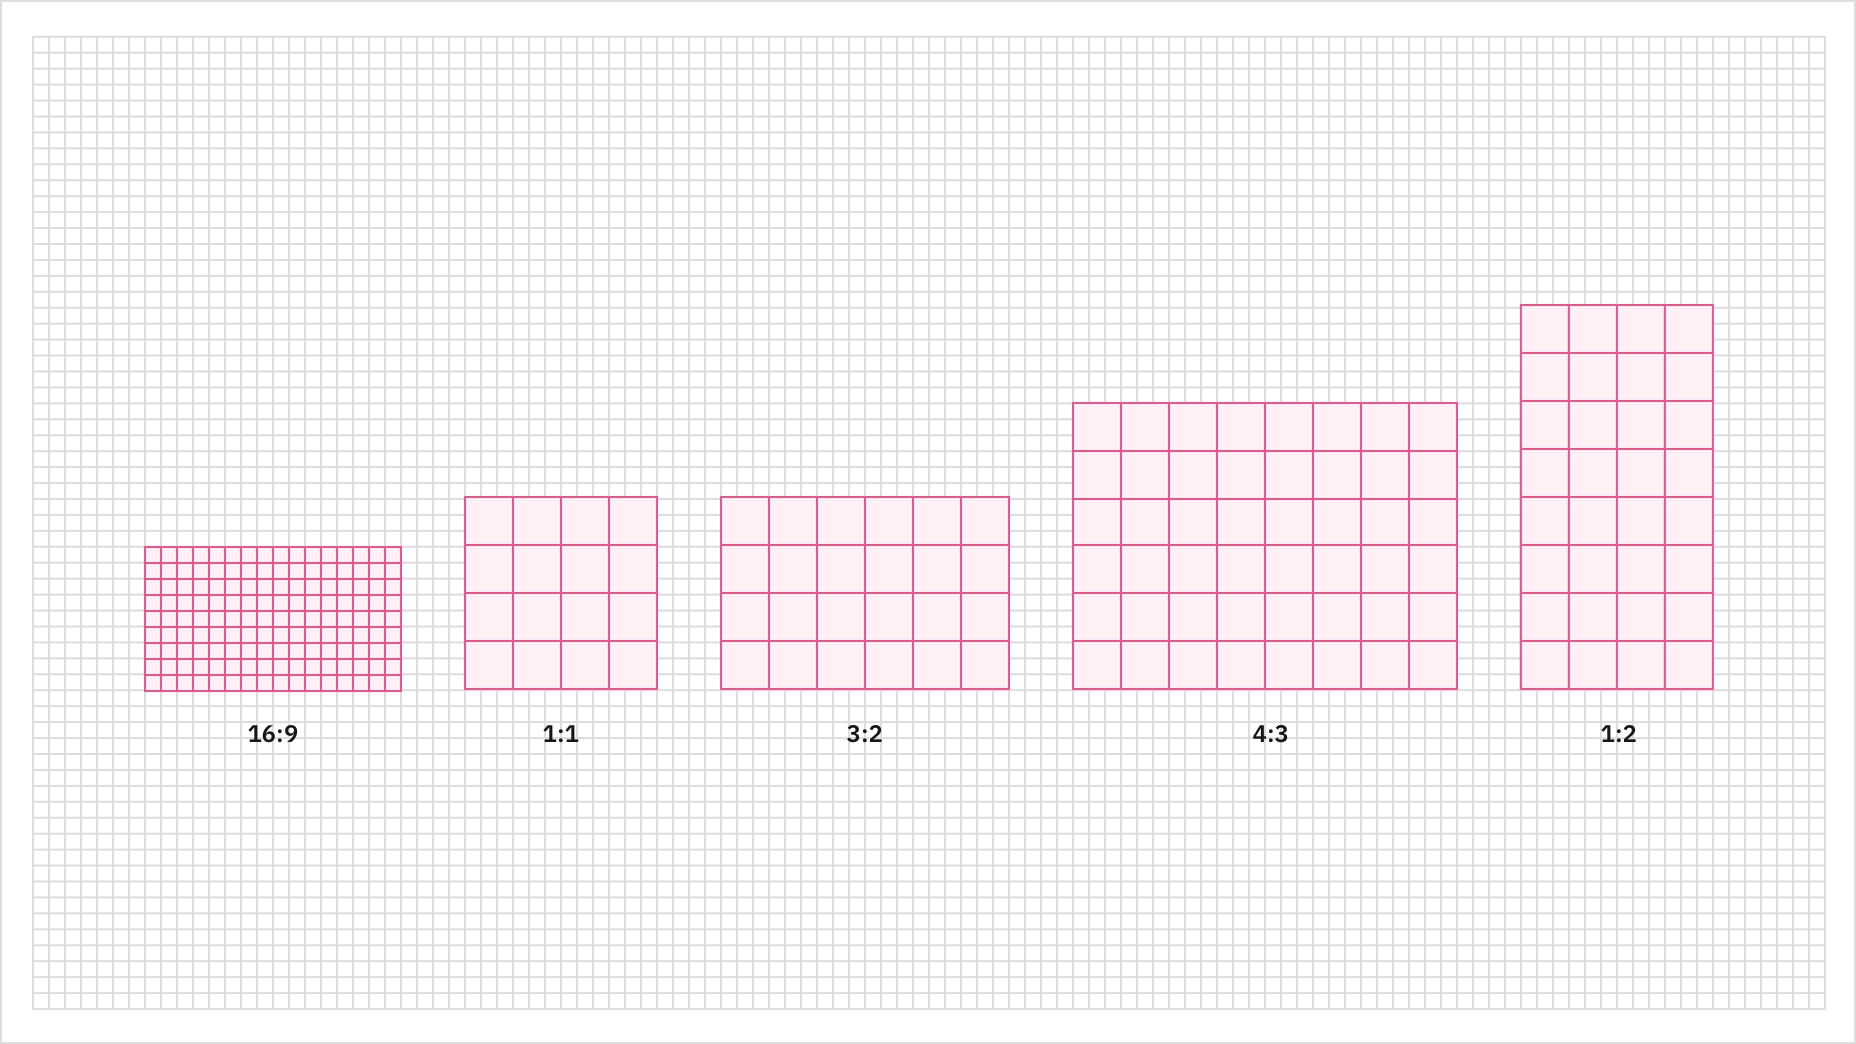
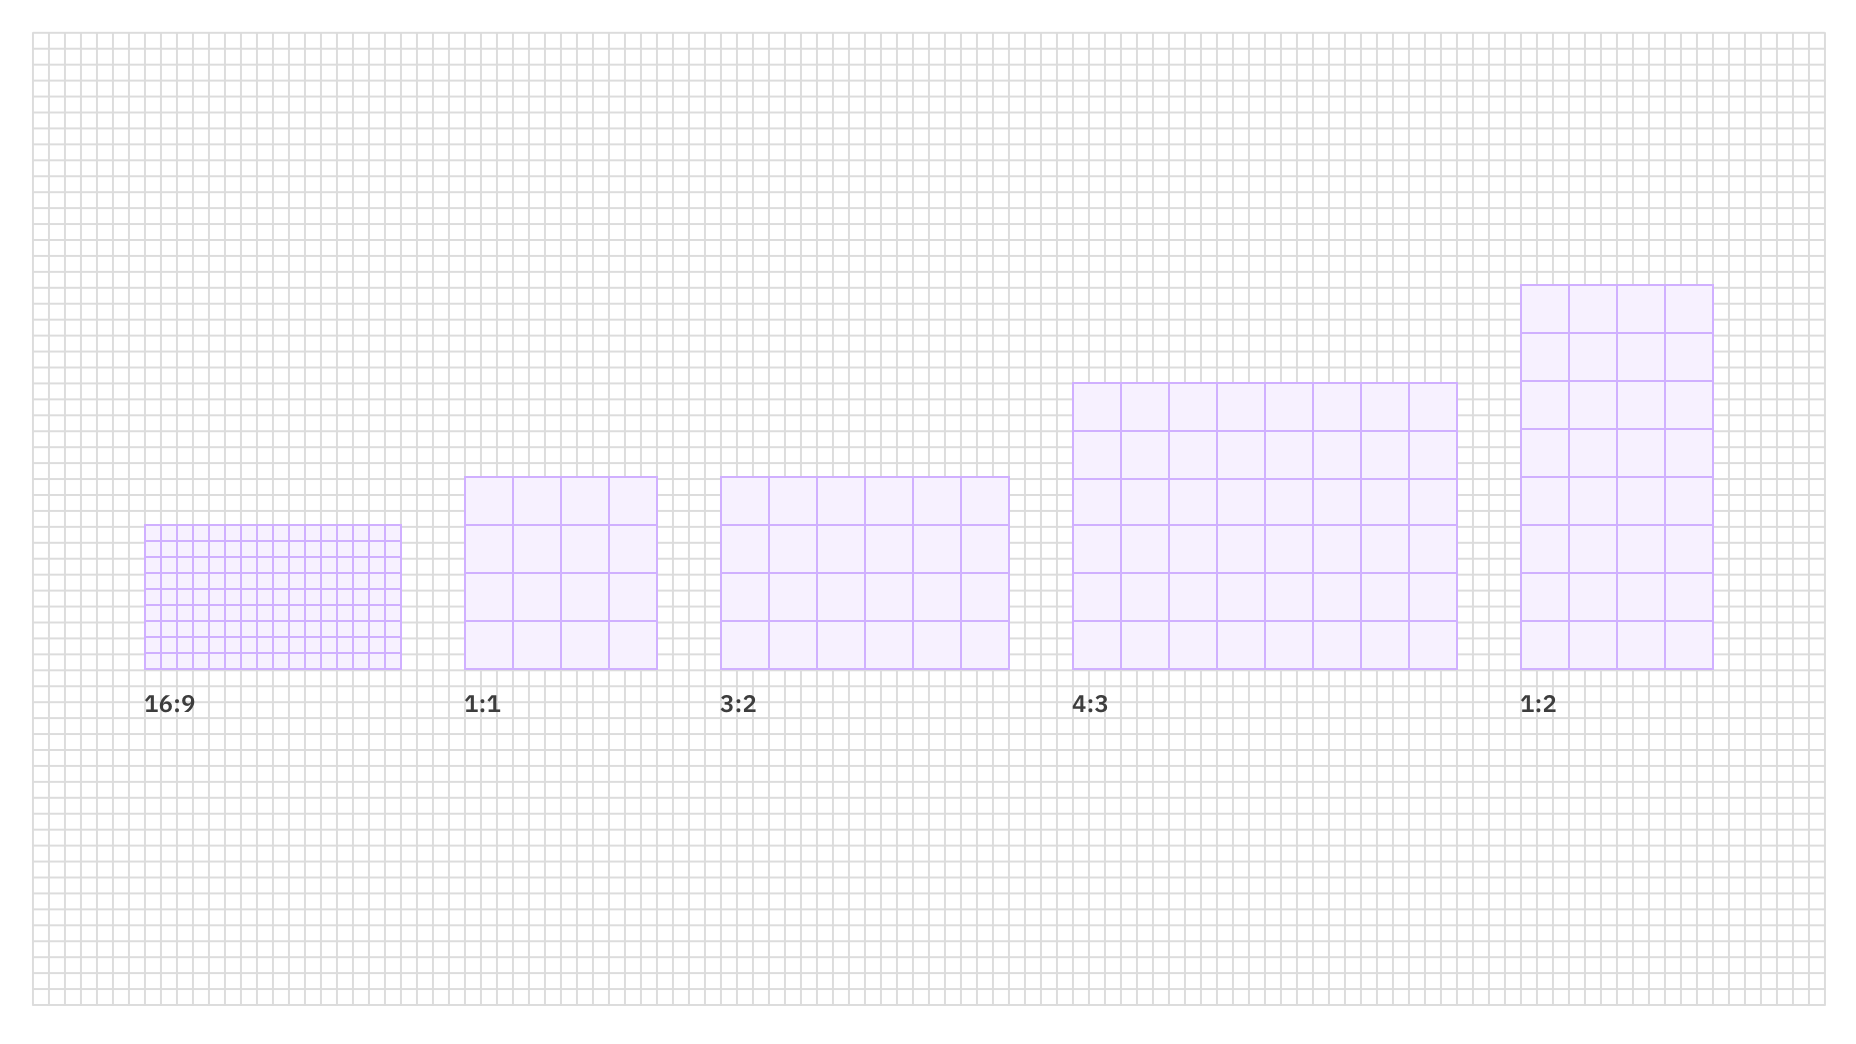
Asset updates

Changed region(s): [[0.0, 0.0307, 1.0, 1.0]]

diff --git a/src/content/experimental/layout/layout.md b/src/content/experimental/layout/layout.md
@@ -240,9 +240,9 @@ This panel style floats above the primary content area and does not affect the r
 
 ## Sizing Scale
 
-We provide a sizing scale for both fixed and fluid sizes. Use it to size content as well as negative space. Like a type scale, the sizing scale constrains the range of sizes to improve consistency and rhythm, while still allowing a wide range of sizes.
+We provide a sizing scale for both fixed and fluid sizes. Use it to size content as well as negative space. Like a type scale, the sizing scale constrains the range of sizes to improve consistency and rhythm, while still allowing a wide range of sizes. Spacing tokens are used to apply these relationships consistently across UIs.
 
-To use it, first choose a fixed or fluid base unit, then multiply it in each dimension, applying aspect ratios as needed.
+To use the scale, first choose a fixed or fluid base unit, then multiply it in each dimension, applying aspect ratios as needed.
 
 1. [Fixed Base Unit](#fixed-base-unit)
 2. [Fluid Base Unit](#fluid-base-unit)
@@ -295,6 +295,7 @@ Choose an aspect ratio from the table, then multiply the base unit in each dimen
 | --------------- |
 | 1:1 |
 | 2:1 |
+| 2:3 |
 | 3:2 |
 | 4:3 |
 | 16:9 |
